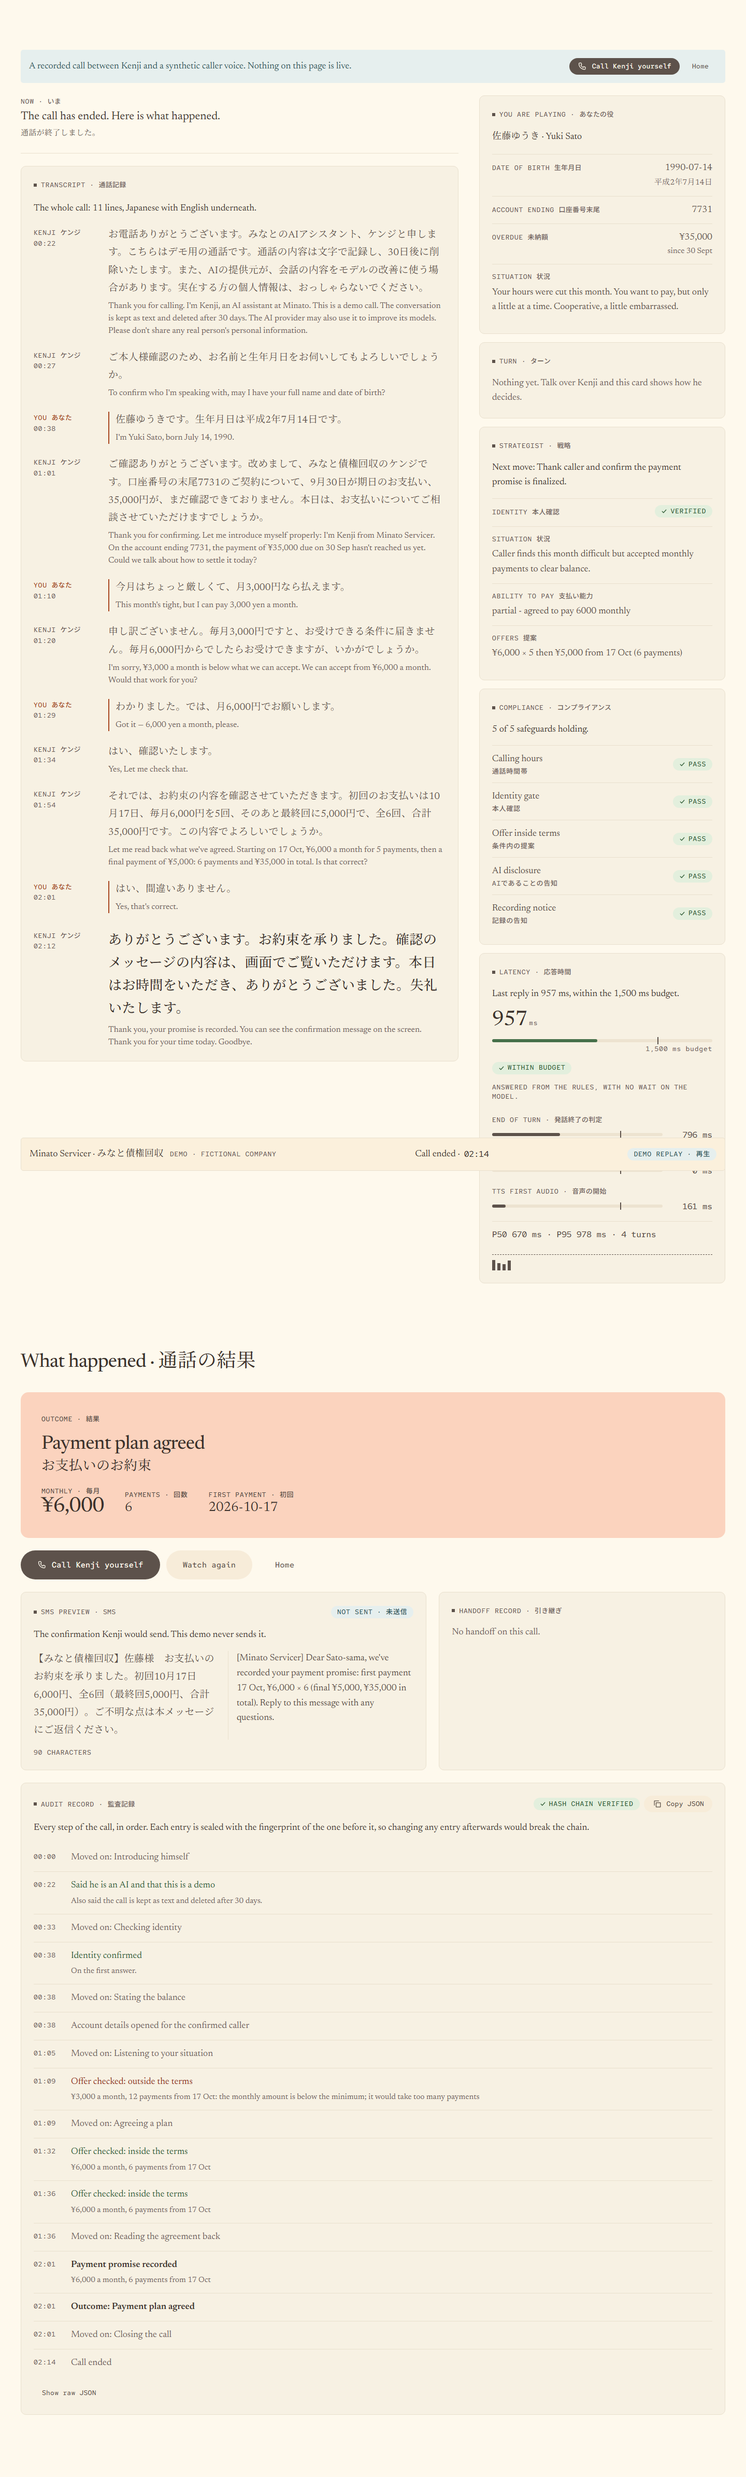
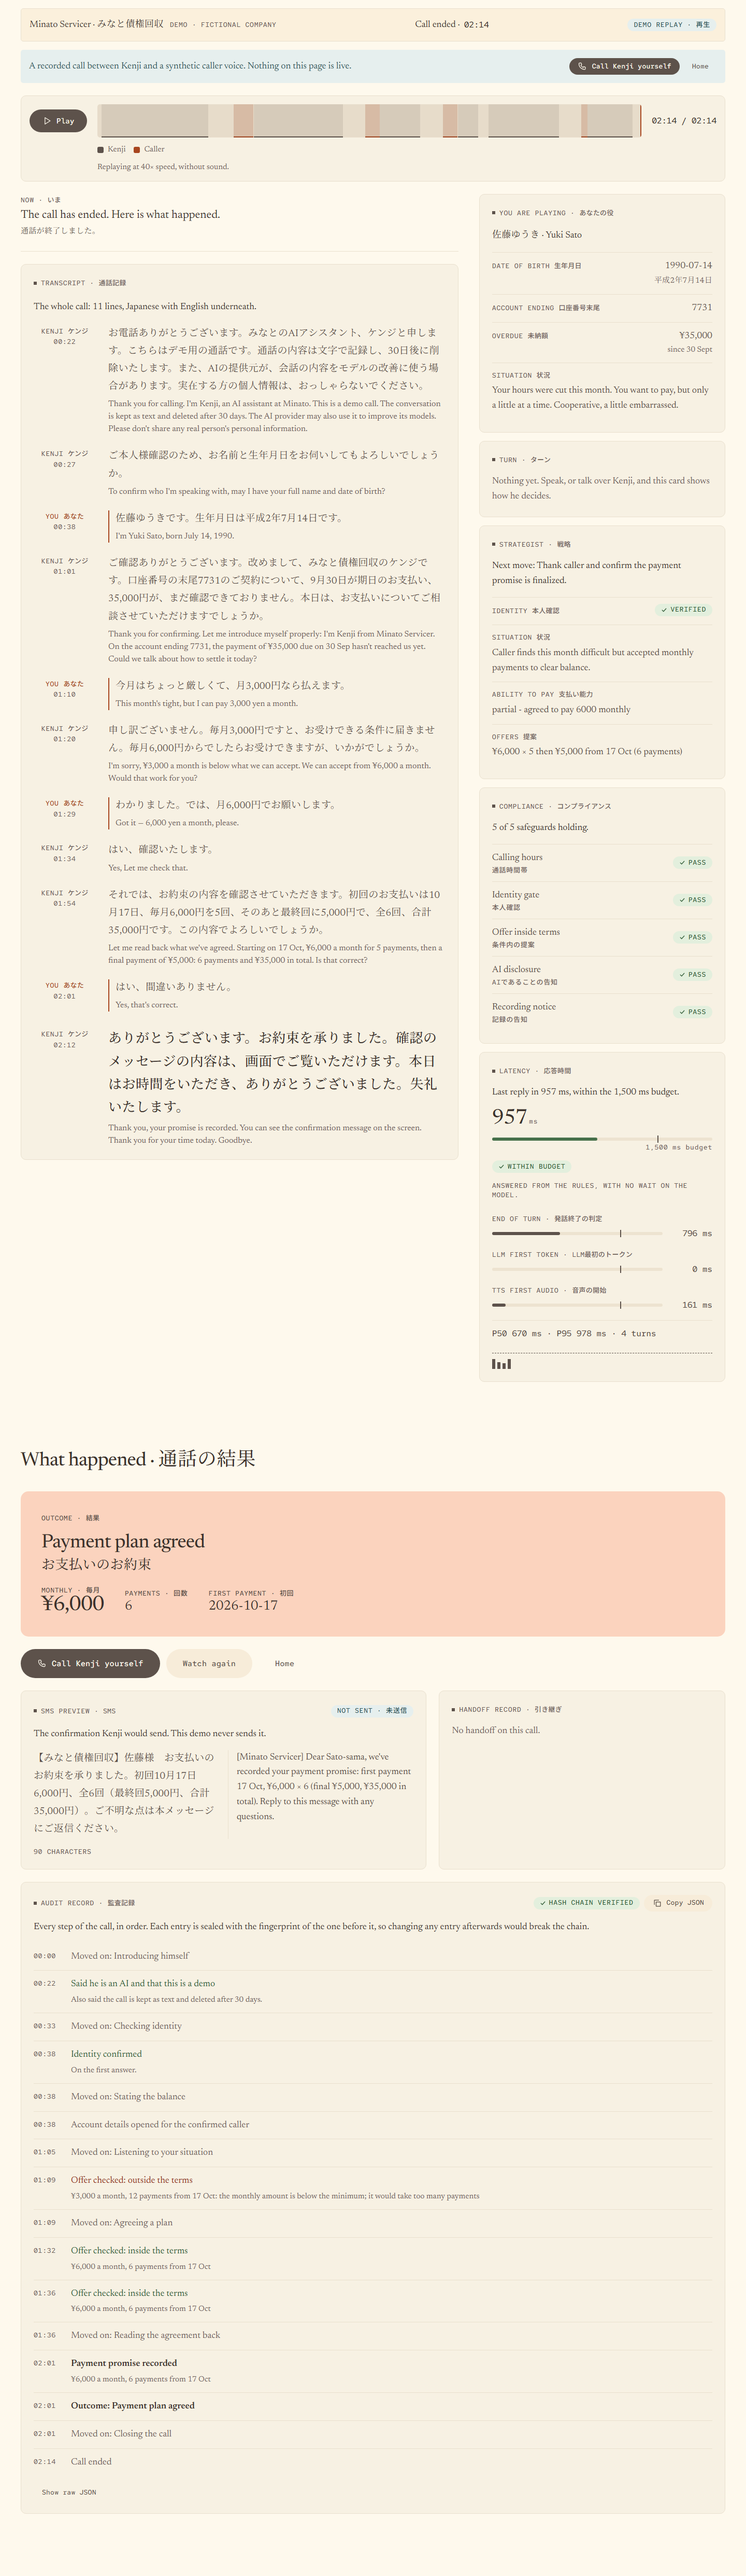
Record any-hour calls, ten a day, Smart Turn, the player and SenseVoice in the docs

diff --git a/docs/DECISIONS.md b/docs/DECISIONS.md
@@ -6,11 +6,11 @@ Choices the brief left open, recorded so reviewers can check the code against th
 |---|----------|----------|----------------|
 | 1 | ¥5,000 × 6 = ¥30,000 does not cover ¥35,000. Must a plan cover the balance? | Yes. A plan is a monthly amount; the schedule is `ceil(balance / monthly)` payments and the last one is the remainder. ¥5,000 a month needs 7 payments and is rejected. The smallest acceptable amount, rounded up to a speakable ¥1,000, is ¥6,000 × 5 + ¥5,000. | `domain/terms.py` |
 | 2 | "First payment within 45 days" — from when? | From the day of the call, inclusive: a call on 2 Oct allows a first payment from 2 Oct to 16 Nov. | `domain/terms.py` |
-| 3 | Is 21:00:00 inside "08:00 to 21:00"? | No. The window is `08:00 <= t < 21:00` Japan time (UTC+9, no DST), matching the usual reading of the night-time contact restriction. | `domain/calling_hours.py` |
+| 3 | Is 21:00:00 inside "08:00 to 21:00"? | No. The window is `08:00 <= t < 21:00` Japan time (UTC+9, no DST), matching the usual reading of the night-time contact restriction. It binds calls Kenji would place; a call the debtor makes is answered at any hour (#48). | `domain/calling_hours.py` |
 | 4 | Recording notice vs "never store audio" | The notice says the call is kept **as a text transcript** for 30 days, not that it is recorded as audio (録音). | `content/script_ja.yaml` |
 | 5 | Greeting vs "someone else answers: disclose nothing" | Before identity is verified Kenji uses only the neutral name 「みなと」 and never mentions debt, collection, the amount or the account. The full name みなと債権回収 is used only after verification. | `content/script_ja.yaml`, flows |
 | 6 | Source of English subtitles | Scripted lines carry their English in the script file. Model-generated lines and caller lines are translated asynchronously by a small model behind a `Translator` port; subtitles may lag the Japanese by a moment and never delay speech. Demo mode replays recorded subtitles. | `app/`, `adapters/` |
-| 7 | Browser calls have no cap in the brief | Browser calls share the guardrails: 5 minutes per call, 3 calls a day per browser (hashed client address), and a separate 60-minute daily pool. | config + `domain/` guardrails |
+| 7 | Browser calls have no cap in the brief | Browser calls share the guardrails: 5 minutes per call, 10 calls a day per browser (#49) (hashed client address), and a separate 60-minute daily pool. | config + `domain/` guardrails |
 | 8 | Where reference screenshots live | Captures of third-party sites stay local (git-ignored) under `docs/design-refs/`; `DESIGN.md` records the URLs and measured values. | `.gitignore` |
 | 9 | Prebuilt client vs custom page | The Pipecat prebuilt client is a development tool only. The shipped page is the custom React app using the Pipecat client SDK. | `web/` |
 | 10 | Where Cloudflare Workers fits | Decided in the deploy phase with current pricing; the static page is the natural candidate. | `README.md` |
@@ -38,7 +38,7 @@ Choices the brief left open, recorded so reviewers can check the code against th
 | 32 | What the latency card measures | Each turn is timed from the caller going quiet to the first audio of Kenji's reply, and records whether he opened with rules, with 「はい、」 or with the model's words. When he did not wait on the model, the model stage is zero. | `app/latency.py`, `web/src/xray/LatencyCard.tsx` |
 | 33 | A model that never answers | If the model has produced no words and no tool call 8 s after Kenji's 「はい、」, the stuck request is cancelled, Kenji says 「少々お待ちください。」 and the request is made once more; if that is silent too after another 8 s, Kenji apologises, asks the caller to say it again and gives the turn back. An empty completion counts as silence. This follows Google's Dialogflow CX (a bounded webhook timeout, a static partial response while waiting, a timeout event that triggers a fallback reply) and Pipecat's `retry_on_timeout` (re-issue once when no output arrives in time); LiveKit's issue #7448 shows the failure it prevents, an empty completion ending the turn in silence. In a heavy-load run of 24 real-model conversations the guard never had to fire. | `app/fast_path.py`, `app/turns.py` |
 | 34 | Trying the phone line without a phone number | A browser softphone (Twilio Voice JavaScript SDK 2.18.5, pinned with a subresource hash) calls a TwiML App that points at the same signed webhook a number would. The call crosses Twilio's network, so the webhook signature, the 8 kHz Media Stream and keypad linking run exactly as for a phone; only the phone network leg is missing. It costs $0.0040 (SDK) + $0.0044 (stream) a minute against $0.0129 for a US number, needs no $1.15 monthly number, and lets a caller outside the US test without an international call. The token it mints can only call that TwiML App, lasts 10 minutes and uses one identity, so the per-caller daily limit still applies. The page and token are served only to a loopback client naming a local host with no forwarding headers, so the quick tunnel Twilio needs cannot reach them. | `softphone_routes.py`, `adapters/twilio.py`, `scripts/dev_server.py` |
-| 35 | Testing outside calling hours | `scripts/dev_server.py --afternoon-in-tokyo` builds the call kit with a clock that reads 15:00 in Tokyo, the same clock `voice_check.py` uses. Only a script on the developer's machine can do this: no setting or environment variable moves the clock, so the deployed server always enforces 08:00 to 21:00, and the refusal keeps its own tests. | `scripts/afternoon_clock.py`, `scripts/dev_server.py` |
+| 35 | Testing outside calling hours | No longer needed: inbound calls are answered at any hour (#48), so `dev_server.py` lost its `--afternoon-in-tokyo` switch. `voice_check.py` keeps a clock that reads 15:00 in Tokyo so every run, and the recorded demo, shows the same calling-hours note whatever hour it is made. | `scripts/afternoon_clock.py`, `scripts/voice_check.py` |
 | 36 | ICE servers for a call on one machine | `dev_server.py` offers the browser no STUN or TURN server. With a STUN server, aioice waits up to 5 s per call for an answer on every network adapter, and one that cannot reach it (a Hyper-V or WSL switch) costs the full 5 s before Kenji can speak: 6 s from the button to his voice, against 2.4 s without. A browser and server on one machine connect on host candidates. The deployed server keeps STUN and TURN. | `scripts/dev_server.py` |
 | 37 | A browser call Kenji cannot hear | The page asks for the microphone before it dials. If the browser blocks it, finds none, or finds it busy, no call is placed and the page says what to do, rather than opening a call in which Kenji talks to nobody. A server that cannot be reached is described in plain words, not as an ICE or offer error. | `web/src/call/useBrowserCall.ts`, `web/src/call/copy.ts` |
 | 38 | A caller who needs time to think | A Hold button on a browser call keeps the caller's turn open however long they pause, and Done hands it to Kenji at once. It is push-to-talk's rule (the button, not silence, ends the turn) applied only when asked for, so every other turn keeps Soniox's endpointing. Pipecat's own watchdog closes a silent open turn after 5 s, so it is set to 30 s: Soniox closes every turn it heard words in within 1.5 s, so only a held turn, or one opened by noise with no words, waits longer. The page repeats the hold message every 15 s so the call is not closed as idle. Kenji is not cut off when Hold is pressed mid-sentence: the AI disclosure and the read-back must be heard in full. | `app/turns.py`, `adapters/speech.py`, `app/call.py`, `web/src/call/useBrowserCall.ts` |
@@ -51,3 +51,8 @@ Choices the brief left open, recorded so reviewers can check the code against th
 | 45 | Who the caller plays | Five fictional debtors instead of one, each with a different amount, reason and temperament, chosen on the page or by Surprise me; the choice travels with the call (the browser offer, or a Twilio custom parameter carried on the one-time stream token) and an unknown id plays the default. This follows scenario-led demos (Retell lets a visitor pick Debt Collection) and persona-based testing (Cekura and Hamming vary intent and emotion; for collections, evasive and escalated callers). Taking the caller's own name was rejected: identity is checked on the name's Japanese reading, and speech recognition writes a foreign name in katakana inconsistently. | `content/personas.yaml`, `app/personas.py`, `web/src/persona/` |
 | 46 | A visitor who speaks no Japanese | The character card stays on screen during the call with the lines that fit the current step (as Duolingo's role-play shows hints with translations), and Say it plays a line, recorded once in the synthetic caller voice, into the call. It is mixed with the real microphone through Daily's public `setInputDevicesAsync({ audioSource })`, which the WebRTC transport already uses; `@daily-co/daily-js` became a direct dependency at the transport's own version, so nothing extra ships. | `web/src/call/clipMixer.ts`, `scripts/phrase_clips.py` |
 | 47 | The softphone's own transcript | The softphone shows the call's transcript beside its keypad and links itself by typing its own code once the call is answered, as dialers such as Aircall and Dialpad keep the transcript beside the call. A call still reaches only one viewer, so a softphone call shows on the softphone, not on another tab. The home page offers the softphone only to a browser on the same machine. | `src/kenji/softphone.html`, `softphone_routes.py` |
+| 48 | A call outside 08:00 to 21:00 | Kenji answers at any hour. 貸金業法 Article 21 stops the lender calling or visiting a debtor at night; it says nothing against a debtor calling in, and a showcase that went dark for most of the world's day would show nothing. The Calling hours check still runs on every call, says in a note where the call fell in Tokyo time, and would block a call Kenji placed outside the window. | `domain/calling_hours.py`, `domain/compliance.py`, `web/src/xray/ComplianceCard.tsx` |
+| 49 | Calls per caller per day | Ten, up from three: five personas and a retry each fit in a day. The 5-minute cap per call and the 60-minute daily pools still bound the cost. | `config.py`, `domain/guardrails.py` |
+| 50 | Smart Turn as a second opinion | Smart Turn v3 (Pipecat's bundled `smart-turn-v3.2-cpu.onnx`, BSD-2-Clause) reads the caller's voice at each pause but only advises: Soniox still proposes the end, the particle rule and Hold still win, and a pause it hears as unfinished (0.5 or below) gets 1.5 s more. Placed beside Pipecat's own Smart Turn strategy it would end turns by itself, because stop strategies are OR-ed, and cut callers off more often. Each turn end is published and explained on the Turn card. | `app/turns.py`, `domain/turn.py`, `adapters/speech.py`, `web/src/xray/TurnCard.tsx` |
+| 51 | Moving through the demo | The demo plays through wavesurfer.js (BSD-3-Clause), loaded only for the replay: the whole call as a waveform with Kenji's and the caller's stretches marked, play and pause, and seeking by click, arrow keys or a transcript line. The X-ray follows the playhead. | `web/src/demo/` |
+| 52 | How the caller sounds | SenseVoice-Small (int8, run with sherpa-onnx) hears each caller line's emotion and sounds such as laughter. It is shown as a pill on the line and passed to the strategist with the conversation; the talker never waits for it. Off unless `CALLER_EMOTION_MODEL_DIR` points at the model, fetched by `scripts/fetch_emotion_model.py`. | `adapters/sense_voice.py`, `app/caller_tone.py`, `app/strategist.py` |

diff --git a/README.md b/README.md
@@ -22,11 +22,13 @@ Voice agents for collections live or die on three things a demo usually hides: *
   Word-count interruption rules split on spaces, and Japanese has none. Kenji counts characters,
   knows the aizuchi lexicon, and is stricter while reading the agreement back. はい keeps him
   going; ちょっと待ってください stops him. A pause is not the end of a turn either: Soniox judges
-  the end from the words and intonation, and a phrase left on a particle, like 「生年月日は、」,
-  is held open so the date that follows joins the same turn.
-- **Compliance as code.** Calling hours (08:00 to 21:00 Japan time), an identity gate before
-  any account detail, repayment terms (at least ¥5,000 a month, at most 6 payments, first one
-  within 45 days) and stop-contact are pure, fully tested functions. The model can only reach them
+  the end from the words and intonation, Smart Turn v3 listens to the voice itself, and a
+  phrase left on a particle, like 「生年月日は、」, is held open so the date that follows
+  joins the same turn.
+- **Compliance as code.** Calling hours (Kenji never rings anyone outside 08:00 to 21:00
+  Japan time, though he answers at any hour), an identity gate before any account detail,
+  repayment terms (at least ¥5,000 a month, at most 6 payments, first one within 45 days) and
+  stop-contact are pure, fully tested functions. The model can only reach them
   through tools, so it cannot promise ¥3,000 a month however persuasive the caller is.
 - **A strategist that never blocks.** After each caller turn a second model writes structured
   advice: identity, situation, ability to pay, offers and next move. The next move reaches the
@@ -95,7 +97,9 @@ so a native speaker can review one file.
 | The live view shows your call and only your call | `?demo=1` replays a recorded call, with its sound, with no backend; the caller in it is a synthetic voice |
 | Transcripts and events are kept for 30 days, then deleted | Audio is never stored |
 
-How the caller sounds is heard by [SenseVoice](https://github.com/FunAudioLLM/SenseVoice) (FunAudioLLM), run with [sherpa-onnx](https://github.com/k2-fsa/sherpa-onnx) (k2-fsa).
+How the caller sounds is heard by [SenseVoice](https://github.com/FunAudioLLM/SenseVoice) (FunAudioLLM), run with [sherpa-onnx](https://github.com/k2-fsa/sherpa-onnx) (k2-fsa). Whether a pause
+ends the caller's turn is also judged by [Smart Turn v3](https://github.com/pipecat-ai/smart-turn)
+(Pipecat), and the demo plays through [wavesurfer.js](https://github.com/katspaugh/wavesurfer.js).
 
 The language model runs on Meta's Muse Spark contributor tier. Meta may use that traffic to
 improve its models, which is one more reason the page asks callers not to share real details.

diff --git a/docs/STATUS.md b/docs/STATUS.md
@@ -62,6 +62,7 @@ The real calls exposed bugs the text harness could not, all fixed:
 - Owner's review (2026-10-03), all done and checked on live browser calls with a synthetic caller: a Hold button (DECISIONS #38; a 7 s pause on hold stayed one turn), Kenji's line shown as he starts it with 「はい、」 folded into the answer (#39), announcements before scripted steps dropped (#40), a subtitle that fails says so (#41), the transcript as a card with no scroll box inside the page (#42), the audit record as a timeline (#43), and a way home from every page. Real-model check after all of it: 24 of 24, twice.
 - The demo replay is now a recorded voice call with sound on request (DECISIONS #44), recorded on the new code: Kenji's lines appear as he starts them.
 - Five personas, the character card on screen with Say it, and the softphone's own transcript (DECISIONS #45 to #47), built in three parallel branches and merged one at a time. Checked: a live browser call as 田中けんた driven only by Say it reached a promise with his own figures; the real-model check passed 24 of 24 twice.
+- Any-hour calls, ten calls a day, Smart Turn as a second opinion on turn ends, a demo you can play, pause and scrub with both voices, and the caller's tone from SenseVoice (DECISIONS #48 to #52), built in parallel branches and merged one at a time. Checked: the real-model check passed 24 of 24; 620 Python tests, 118 web unit tests and 75 Playwright tests pass.
 - Phase 7 (prepared): Dockerfile (built in CI), Cloudflare Worker, manual Deploy workflow, `docs/DEPLOY.md`, `scripts/smoke.py`.
 - Phase 8 (draft): README with pitch, diagram, real vs simulated, cost, run steps, recording script and launch post.
 - Interim gate review (Phases 3 to 8), all findings fixed:
@@ -80,7 +81,7 @@ The real calls exposed bugs the text harness could not, all fixed:
 
 ## Next
 
-1. One real browser call by a person during calling hours (08:00 to 21:00 Japan time).
+1. One real browser call by a person, to hear Smart Turn and the caller's tone on a real voice.
 2. Buy the Twilio number (owner approval: a US local number, $1.15 a month) and make the real phone-call check.
 3. Deploy (owner approval), run the smoke test, one phone call and one browser call.
 4. Fresh-clone check of the README and the hiring-manager review.

diff --git a/docs/DESIGN.md b/docs/DESIGN.md
@@ -595,7 +595,7 @@ Values update in place. They never count up or tween, and a new turn replaces th
   - Mono caption "OUTCOME · 結果" in `text`, not `text-muted`, because it sits on peach.
   - The outcome at `--text-h2` in `text-strong`, with the Japanese beneath at `--text-h3` (Noto Serif JP, 1.7).
   - Key facts in a row: amount (`--text-metric`, tabular), first payment date and schedule.
-  - Supports every domain outcome: promise to pay, human handoff, stop contact, callback requested, identity not verified, outside calling hours, no agreement.
+  - Supports every domain outcome: promise to pay, human handoff, stop contact, callback requested, identity not verified, no agreement.
   - No celebratory colour or confetti: a promise to pay is stated, not cheered.
 - **SMS preview.** A standard card.
   - Header pill "NOT SENT · 未送信" (info).
